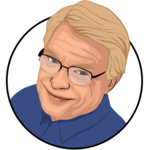
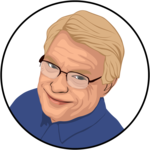
vectorize Allen

diff --git a/events/rix/2020/js/event.js b/events/rix/2020/js/event.js
@@ -477,7 +477,7 @@
             "bio": "Principal @ Hollub Associates Ltd, Pluralsight Author, Author of <a href=\"https://www.oreilly.com/library/view/design-patterns-in/9781491935828/\">Design Patterns in the Real World</a> course",
             "title": "War is Peace, Freedom is Slavery, Ignorance is Strength, Scrum is Agile",
             "description": "A few years ago, the death of agile was a meme. Agile was (and is still) being supplanted by 'Dark Agile', an Agile in name only, with few of the benefits of the real thing. In a way, things have gotten worse. Agile has arisen as a zombie, eating the brains of the corporate world. 'Dark Agile' flies in the face of basic principles, and does active damage. All is not lost, though. There are organizations, some quite large, that are 'doing it right', and reaping the benefits. We haven't fallen completely into Orwellian dysfunction. This talk shows you what Agile should be and contrasts that to what it has become. We’ll look at the ways that it’s been perverted",
-            "img": "images/allenh.jpg",
+            "img": "images/allenvector.png",
             "presentation": "",
             "video": ""
           },
